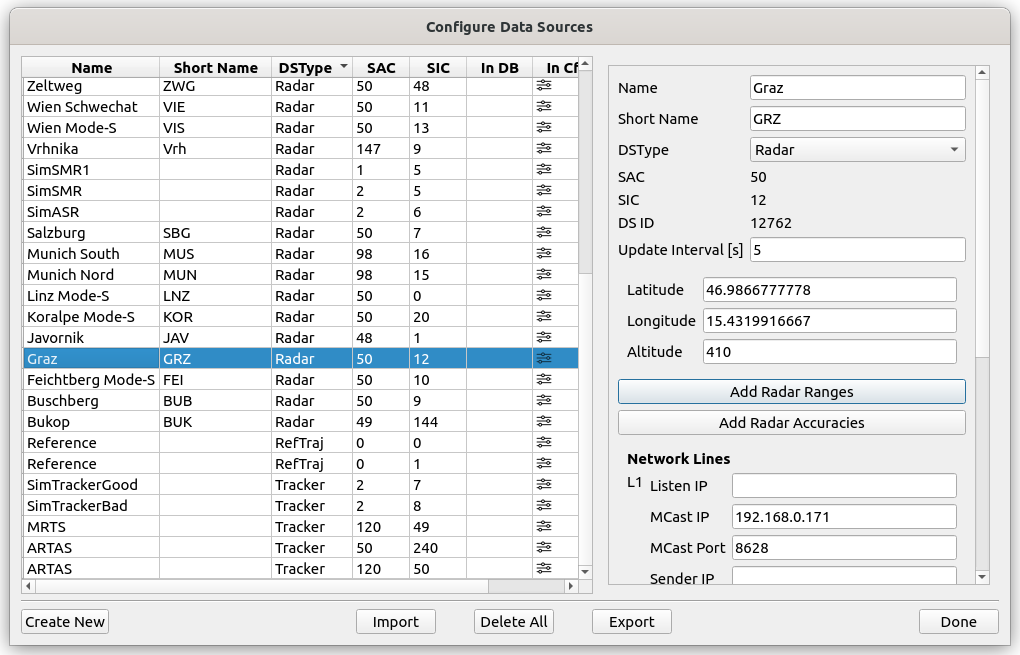
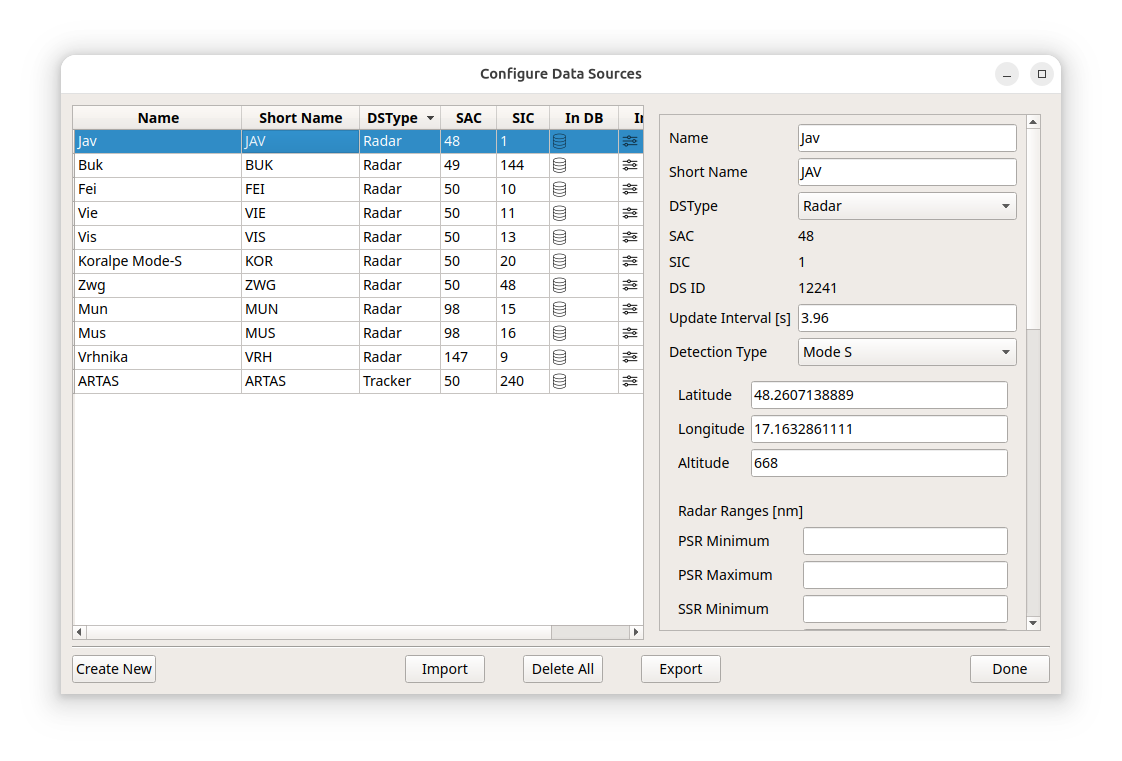
doc up

diff --git a/doc/user_manual/ui/config/ui_configuration_data_sources.tex b/doc/user_manual/ui/config/ui_configuration_data_sources.tex
@@ -71,6 +71,18 @@ For sources of DSType 'Radar', the follwing additional information should be pro
 
 Additional optional information can be provided:
 
+\subsubsection{Detection Type}
+
+A detection type can be given of any data source, 'Mode S' is given as default. Currently only 'Primary Ground Only" used during reconstruction, but it is very important to set this type for SMRs, to mitigate sub-optimal association of primary-only target reports in close distances to clutter. \\
+
+\begin{figure}[H]
+  \center
+    \includegraphics[width=8cm,frame]{figures/configure_ds_dettyp.png}
+  \caption{Configure Data Sources: Detection type}
+\end{figure}
+
+\subsubsection{Radar Ranges \& Accuracies}
+
 \begin{figure}[H]
   \center
     \includegraphics[width=8cm,frame]{figures/configure_data_sources_radar_details.png}

diff --git a/doc/user_manual/reconst/reconstructor.tex b/doc/user_manual/reconst/reconstructor.tex
@@ -153,6 +153,16 @@ The following target types exist:
 \item FFT
 \end{itemize}
 \end{itemize}
+\ \\
+
+The target size is used in Primary-Only Association in the Prob+IMM reconstructor:
+
+\begin{itemize}
+\item UFor each target type, an average size is defined
+\item As radius in meters
+\item For each primary-only association, if the target type is known, the average target size is subtracted from the "distance threshold" (rather: probabilistic distance criteria)
+\item Allows for distinction between small targets (obstacles, vehicles) and big ones (large aircraft)
+\end{itemize}
 
 \subsection{Discussion}
 
